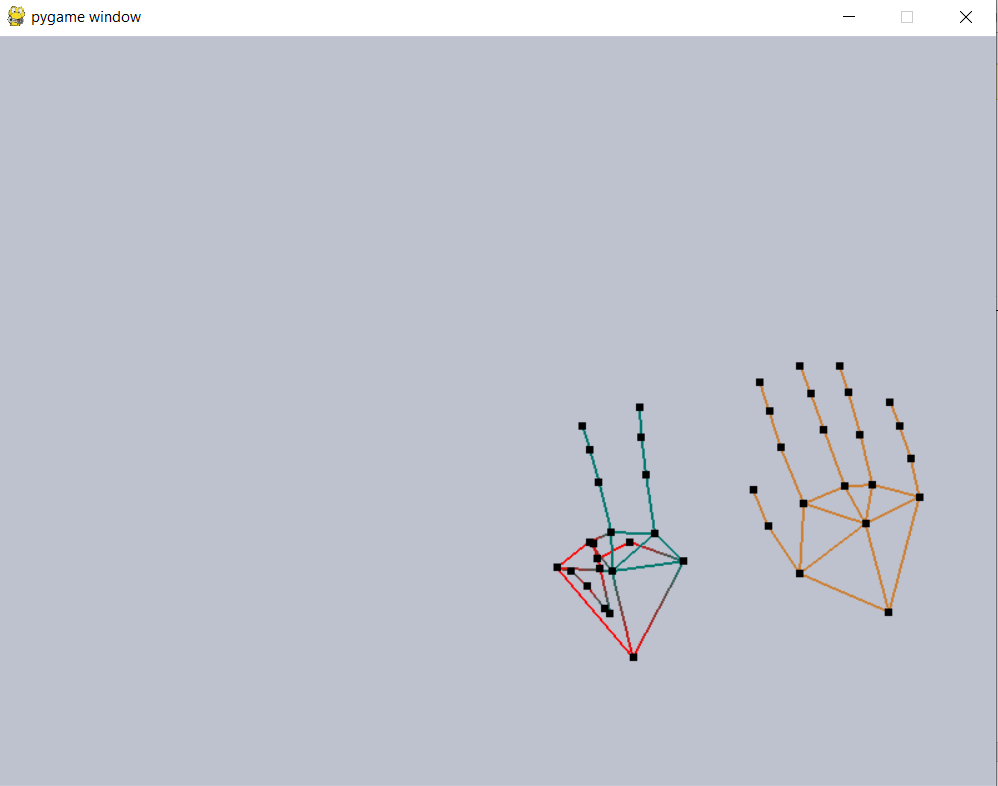
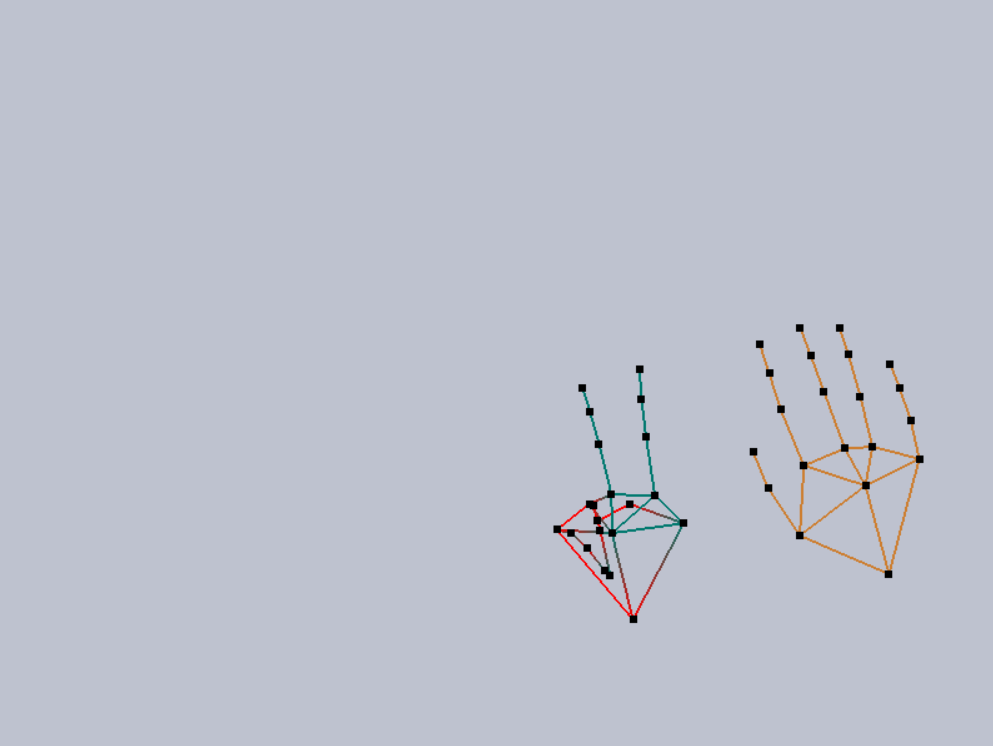
добавил текст про визуализацию руки в тех

diff --git a/report/constructors.tex b/report/constructors.tex
@@ -69,3 +69,16 @@
 
 \section{Визуализация руки}
 
+\hspace{0.6cm} Визуализация руки написана на python, с использованием библиотек TkInter и OpenGL. Для визуализации руки нам нужно приложение, которое может загружать точки из текстового файла, а так же редактировать уже имееющиеся точки с помощью мышки ради изменения их положения.
+\hspace{0.6cm} TkInter – Библиотека для Питона, которая позволяет создавать интерфейс.
+\hspace{0.6cm} OpenGL – API для разработки для рендеринга 3д и 2д графики. Оно позволяет нам вместе с Tkinter визуализировать кисть руки, и показать инвалидные ребра этой кисти. С помощью OpenGL мы избавились от большого количества формул и алгоритмов, которые бы нам потребовались, если бы мы сами писали свой движок.
+
+\hspace{0.6cm} Выбираются точки из текстового файла, которых должно быть 42 и после проверки допустимости мы выводим руки на экран. При этом если ребра окрашены красным цветом, то это означает что положение отдельной части руки в этих 3ех точках недопустимо.
+\hspace{0.6cm} Левая рука окрашена зелёным цветом, а правая коричневым. При этом точки явно обозначены чёрными квадратами.
+	
+\begin{figure}[ht!]
+	\centering
+	\includegraphics[scale=0.5]{example.png}
+	\caption{Пример визуализации руки в Python}
+	\label{fig:VisHand}
+\end{figure}
